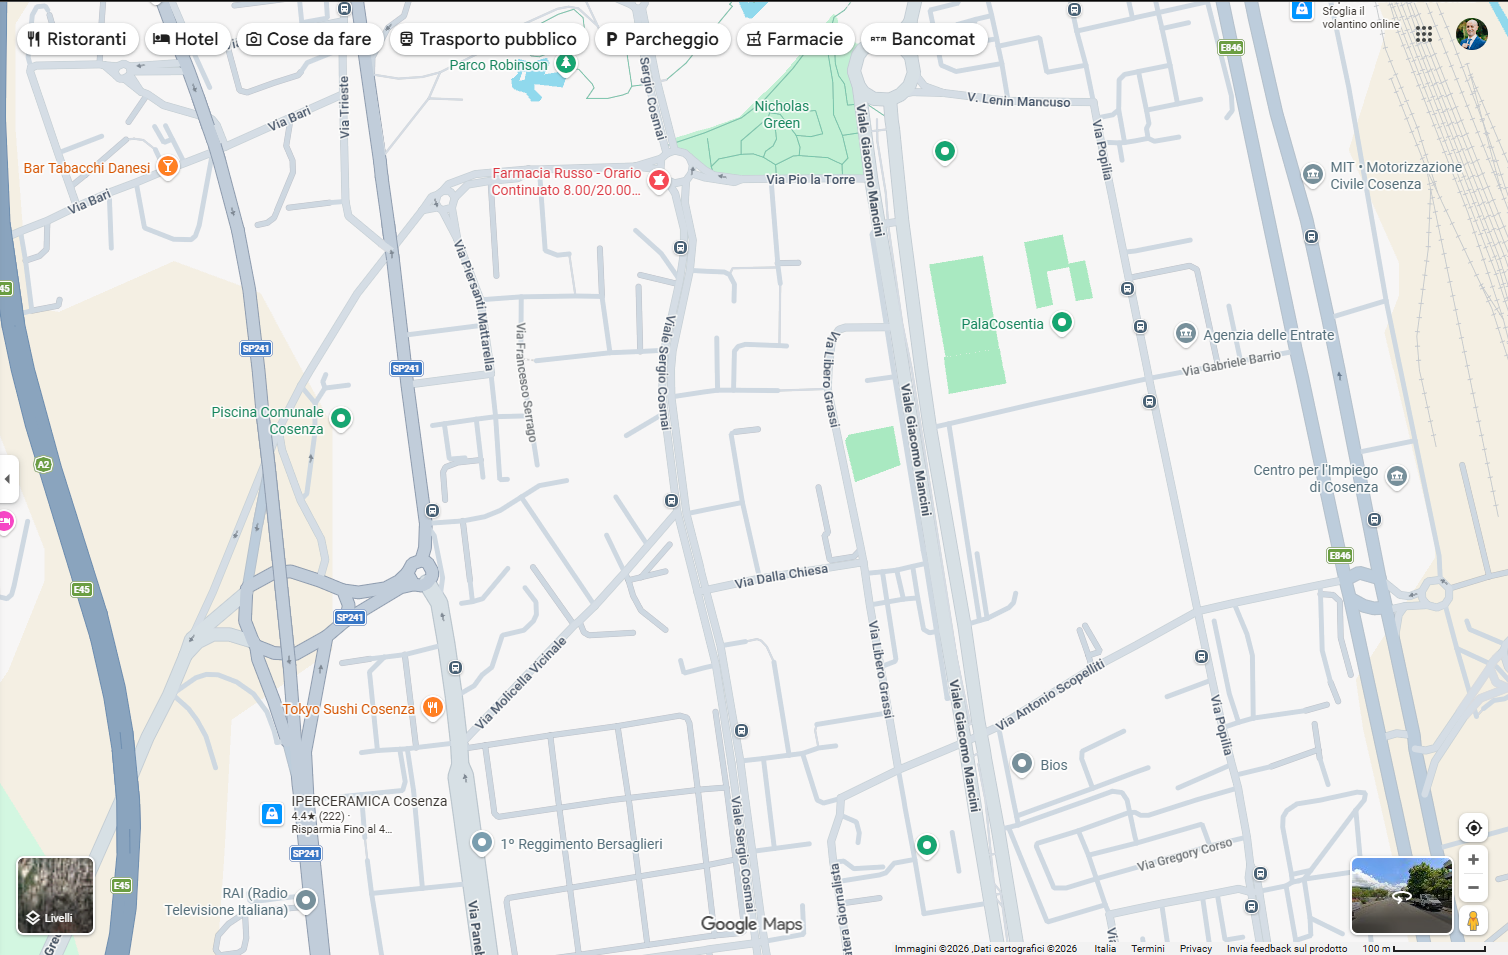
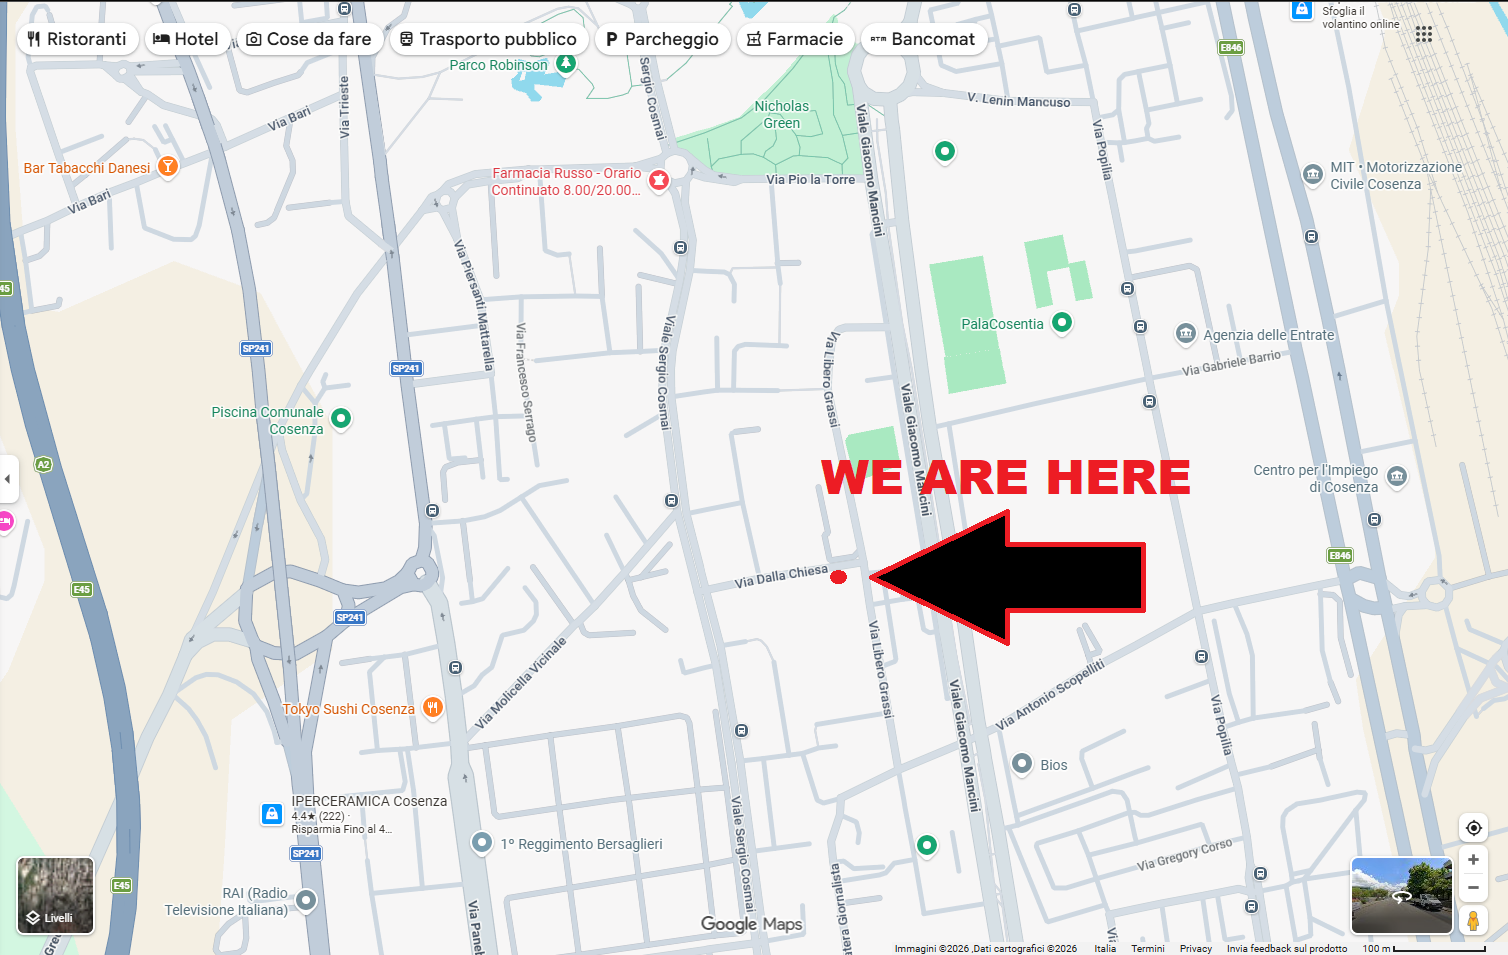
Context added

Changed region(s): [[0.5298, 0.4555, 0.8103, 0.6681], [0.9662, 0.0, 0.9973, 0.0607]]

diff --git a/src/App.js b/src/App.js
@@ -1,4 +1,6 @@
-import React, { useState } from 'react';
+import React from 'react';
+import { NavProvider, useNav } from './context/NavContext.js';
+
 // ELEMENTS THAT ARE IN EVERY PAGE
 import { Header } from './components/header.js';
 import { Footer } from './components/footer.js';
@@ -7,23 +9,40 @@ import { HomePage } from './pages/homepage/homepage.js';
 import { ContactPage } from "./pages/contact/contact.js";
 import { AboutUs } from "./pages/aboutUs/aboutUs.js";
 import { OrderOnline } from "./pages/orderOnline/orderOnline.js";
+import { Cart } from "./pages/cart/cart.js";
 
-// --------------------------
+function AppContent() {
+  const { currentPage } = useNav();
 
-function App() {
-  
-  const [currentPage, setCurrentPage] = useState("homepage");
-  
   return (
     <div className="App">
-      <Header setCurrentPage={setCurrentPage} currentPage={currentPage}/>
+
+      <Header /> 
+      
       {currentPage === "homepage" && <HomePage />}
       {currentPage === "contact" && <ContactPage />}
       {currentPage === "aboutUs" && <AboutUs />}
       {currentPage === "orderOnline" && <OrderOnline />}
-      <Footer setCurrentPage={setCurrentPage} currentPage={currentPage}/>
+      {currentPage === "cart" && <Cart />}
+      
+      <Footer />
+      
     </div>
   );
 }
 
-export default App;
+// So because of prop drilling
+// If I wanted to use the setCurrentPage function, that was in App, I needed to drill through the first child of App, which is homepage
+// THEN drill again to its componet: makeYourOwnPizza
+// So instead of repeating the code twice, you made a "twin" app element that manages only that transition from page to page, giving the function setCurrentPage to whomever requests it, no matter how down inside a sub-componet it it.
+// And all the component needs to perform this page switch (no matter where he is) it's these 2 lines:
+// import { useNav } from '../context/NavContext.js';
+// const { currentPage, setCurrentPage } = useNav(); 
+
+export default function App() {
+  return (
+    <NavProvider>
+      <AppContent />
+    </NavProvider>
+  );
+}

diff --git a/src/components/underHeaderOrderOnline.js b/src/components/underHeaderOrderOnline.js
@@ -1,4 +1,6 @@
 import React, { useState } from 'react';
+import { useNav } from '../context/NavContext.js';
+
 import pizza1 from '../img/1.jpg';
 import pizza2 from '../img/2.jpg';
 import pizza3 from '../img/3.jpg';
@@ -10,7 +12,7 @@ import pizza8 from '../img/8.jpg';
 import pizza9 from '../img/9.jpg';
 
 export const UnderHeaderOrderOnline = () => {
-  
+  const { setCurrentPage } = useNav();
   // State to track which image is enlarged
   const [enlargedImg, setEnlargedImg] = useState(null);
 
@@ -85,7 +87,7 @@ export const UnderHeaderOrderOnline = () => {
           <div className="content">
             <h2>{pizza.name}</h2>
             <p>Price: £{pizza.price}</p>
-            <button tyle="button" className="my-button-special" onClick={(e) => e.stopPropagation()}>Add to chart</button>
+            <button tyle="button" className="my-button-special" onClick={(e) => e.stopPropagation()} onClick={() => setCurrentPage("cart")}>Add to cart</button>
             </div>
           </div>
         ))}

diff --git a/src/components/makeYourOwnPizza.js b/src/components/makeYourOwnPizza.js
@@ -1,7 +1,10 @@
 import React, { useState } from 'react';
+import { useNav } from '../context/NavContext.js';
+
 import makeYourOwnPizza from '../img/14.jpg';
 
 export const MakeYourOwnPizza = () => {
+  const { setCurrentPage } = useNav();
   
   const ingredients = [
     { name: "Italian sausages", price: 2 },
@@ -99,7 +102,7 @@ export const MakeYourOwnPizza = () => {
                     <strong>TOTAL</strong>
                     <strong>£{total}</strong>
                   </div>
-                  <button className="checkout-btn">GO TO CART</button>
+                  <button className="checkout-btn" onClick={() => setCurrentPage("cart")}>GO TO CART</button>
                   <button onClick={() => setShowSummary(false)} className="close-btn">EDIT</button>
                 </div>
               </div>

diff --git a/src/context/NavContext.js b/src/context/NavContext.js
@@ -1,0 +1,18 @@
+// THIS IS A REACT CONTEXT API (LIKE UN UMBRELLA ON TOP OF ALL THE FILES READY TO BE USED BY THEM)
+
+import React, { createContext, useState, useContext } from 'react';
+
+const NavContext = createContext();
+
+export const NavProvider = ({ children }) => {
+  const [currentPage, setCurrentPage] = useState("homepage");
+
+  return (
+    <NavContext.Provider value={{ currentPage, setCurrentPage }}>
+      {children}
+    </NavContext.Provider>
+  );
+};
+
+// Custom hook so it's super fast to import
+export const useNav = () => useContext(NavContext);

diff --git a/src/components/header.js b/src/components/header.js
@@ -1,9 +1,11 @@
 import React, { useState, useEffect } from 'react';
+import { useNav } from '../context/NavContext.js';
+
 import logo from '../img/mario-pizza-logo.png';
 
-export const Header = ({currentPage, setCurrentPage}) => {
+export const Header = () => {
+  const { setCurrentPage } = useNav();
   
-
   const [isMenuOpen, setIsMenuOpen] = useState(false);
   
   // the header's top position (hidden at -150px by default)

diff --git a/src/components/footer.js b/src/components/footer.js
@@ -1,4 +1,6 @@
 import React from 'react';
+import { useNav } from '../context/NavContext.js';
+
 import logo from '../img/mario-pizza-logo.png';
 
 const scrollToTheTop = () => {
@@ -8,7 +10,8 @@ const scrollToTheTop = () => {
   });
 };
 
-export const Footer = ({currentPage, setCurrentPage}) => {
+export const Footer = () => {
+  const { setCurrentPage } = useNav();
   return (
     
     <footer id="footer-global">

diff --git a/src/components/testing.js b/src/components/testing.js
@@ -10,12 +10,12 @@ export const Testing = () => {
   }
   
   return(
-
+<>
       <div>
         <button onClick={toggleClick}>
           {isClicked ? "THANKS FOR CLIKING!!!" : "CLICK HERE!"}
         </button>
       </div>
-
+</>
   )
 }

diff --git a/src/pages/cart/cart.js b/src/pages/cart/cart.js
@@ -1,0 +1,7 @@
+import React from 'react';
+
+export const Cart = () => {
+  return (
+    <h1>THIS IS A CART</h1>
+  )
+}
